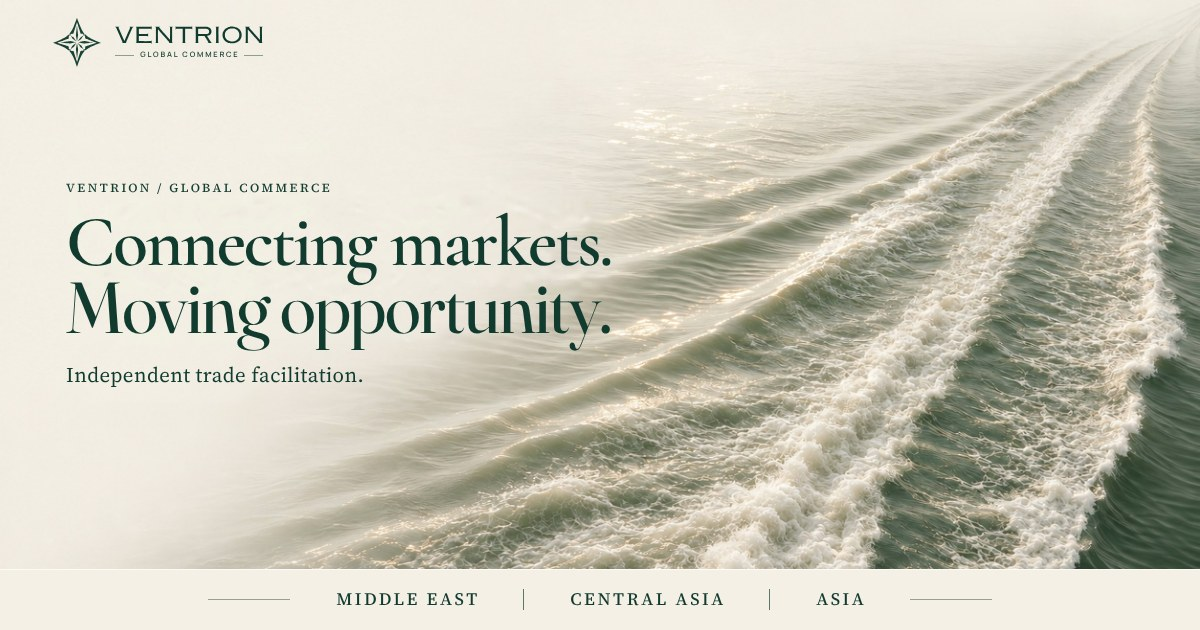
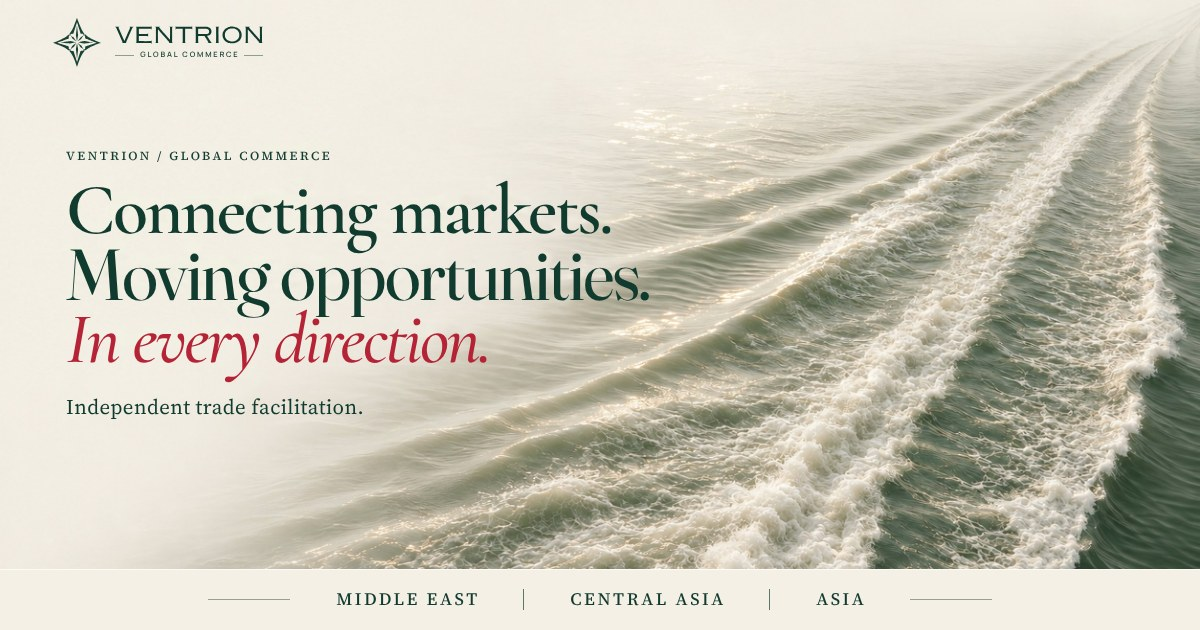
Round 10: three-line hero, "Track your progress", Ventrion's illustrations
- Hero: "Connecting markets. / Moving opportunities. / In every direction."
  (the third line in burgundy italic); title, slogan, manifest, footer line,
  social cards and alt text updated to match; phone headline sized so all
  three lines stay whole down to 320px screens
- Client portal: "Track your progress." with a plain-spoken description:
  "Ventrion values transparency and time more than anything. To give you peace
  of mind, you can track your trade whenever you want, wherever you are."
  Every "Track your engagements" link now reads "Track your progress"
- Ventrion's warehouse and ship's hold illustrations, cut out of their
  backgrounds as transparent images (soft shadows kept), now picture Quality
  Over Quantity and Distance Changes Nothing
- The table of elements moves beneath the network map; the vector bulk bags
  drawing is retired

Claude-Session: https://claude.ai/code/session_01HLCdPeU8aC6mDrDa4YDQgv

Changed region(s): [[0.0308, 0.2413, 0.555, 0.6635]]

diff --git a/components/sections/Network.tsx b/components/sections/Network.tsx
@@ -7,6 +7,7 @@ import { Eyebrow } from "@/components/ui/Eyebrow";
 import { SplitHeading } from "@/components/ui/SplitHeading";
 import { Reveal } from "@/components/ui/Reveal";
 import { NetworkMap } from "./network/NetworkMap";
+import { ElementTable } from "./network/ElementTable";
 
 function CornerFrame() {
   const corner = "absolute h-5 w-5 border-mark/35";
@@ -94,41 +95,48 @@ export function Network() {
         </Reveal>
 
         <div className="mt-12 grid gap-14 lg:mt-16 lg:grid-cols-12 lg:gap-8">
-          {/* The markets, by region: hover, tab to or tap a name to bring it forward on the map */}
-          <div className="grid grid-cols-2 gap-x-6 gap-y-8 sm:grid-cols-3 lg:col-span-7">
-            {REGIONS.map((region) => (
-              <div key={region} className={region === "Middle East" ? "row-span-2 sm:row-span-1" : ""}>
-                <p className="eyebrow text-[10px] text-mist">{region}</p>
-                <ul className="mt-3 space-y-2">
-                  {MARKETS.map((market, i) =>
-                    market.region === region ? (
-                      <li key={market.id}>
-                        <button
-                          type="button"
-                          onClick={() => select(i)}
-                          onMouseEnter={() => hoverMarket(i)}
-                          onMouseLeave={() => hoverMarket(null)}
-                          onFocus={() => hoverMarket(i)}
-                          onBlur={() => hoverMarket(null)}
-                          aria-pressed={i === active}
-                          className={`group flex items-center gap-2.5 text-left font-serif text-[1.15rem] leading-tight text-ivory transition-opacity duration-500 sm:text-[1.25rem] ${
-                            i === focus ? "italic" : "opacity-80 hover:opacity-100"
-                          }`}
-                        >
-                          <span
-                            aria-hidden="true"
-                            className={`h-1.5 w-1.5 shrink-0 rounded-full bg-burgundy transition-transform duration-500 ${
-                              i === focus ? "scale-100" : "scale-0 group-hover:scale-100"
+          <div className="lg:col-span-7">
+            {/* The markets, by region: hover, tab to or tap a name to bring it forward on the map */}
+            <div className="grid grid-cols-2 gap-x-6 gap-y-8 sm:grid-cols-3">
+              {REGIONS.map((region) => (
+                <div key={region} className={region === "Middle East" ? "row-span-2 sm:row-span-1" : ""}>
+                  <p className="eyebrow text-[10px] text-mist">{region}</p>
+                  <ul className="mt-3 space-y-2">
+                    {MARKETS.map((market, i) =>
+                      market.region === region ? (
+                        <li key={market.id}>
+                          <button
+                            type="button"
+                            onClick={() => select(i)}
+                            onMouseEnter={() => hoverMarket(i)}
+                            onMouseLeave={() => hoverMarket(null)}
+                            onFocus={() => hoverMarket(i)}
+                            onBlur={() => hoverMarket(null)}
+                            aria-pressed={i === active}
+                            className={`group flex items-center gap-2.5 text-left font-serif text-[1.15rem] leading-tight text-ivory transition-opacity duration-500 sm:text-[1.25rem] ${
+                              i === focus ? "italic" : "opacity-80 hover:opacity-100"
                             }`}
-                          />
-                          {market.name}
-                        </button>
-                      </li>
-                    ) : null,
-                  )}
-                </ul>
-              </div>
-            ))}
+                          >
+                            <span
+                              aria-hidden="true"
+                              className={`h-1.5 w-1.5 shrink-0 rounded-full bg-burgundy transition-transform duration-500 ${
+                                i === focus ? "scale-100" : "scale-0 group-hover:scale-100"
+                              }`}
+                            />
+                            {market.name}
+                          </button>
+                        </li>
+                      ) : null,
+                    )}
+                  </ul>
+                </div>
+              ))}
+            </div>
+
+            {/* What moves through the network: the table of elements, in the map's colours */}
+            <Reveal className="mt-14 max-w-[34rem] border-t border-line pt-10 lg:mt-16">
+              <ElementTable />
+            </Reveal>
           </div>
 
           <Reveal stagger={0.12} className="lg:col-span-4 lg:col-start-9">

diff --git a/components/sections/Principles.tsx b/components/sections/Principles.tsx
@@ -1,6 +1,7 @@
 "use client";
 
-import { useRef } from "react";
+import Image from "next/image";
+import { useRef, type ReactNode } from "react";
 import { gsap, MOTION_QUERIES, useGSAP } from "@/lib/gsap";
 import { PRINCIPLES, type PrincipleId } from "@/lib/content";
 import { Eyebrow } from "@/components/ui/Eyebrow";
@@ -8,14 +9,37 @@ import { Reveal } from "@/components/ui/Reveal";
 import { Emphasis } from "@/components/ui/Emphasis";
 import { WayWeWork } from "./principles/WayWeWork";
 import { TradingHouse } from "./principles/diagrams/TradingHouse";
-import { ElementTable } from "./principles/diagrams/ElementTable";
-import { BulkBags } from "./principles/diagrams/BulkBags";
+import warehouse from "@/assets/images/art/warehouse.webp";
+import shipHold from "@/assets/images/art/ship-hold.webp";
 
-/** A drawing for each principle, in the style of the network map. */
-const DIAGRAMS: Record<PrincipleId, () => React.ReactElement> = {
-  principals: TradingHouse,
-  quality: ElementTable,
-  distance: BulkBags,
+const ART_SIZES = "(min-width: 1024px) 28rem, 100vw";
+
+/**
+ * A picture for each principle. Ventrion's own illustrations, cut out of their
+ * backgrounds: a warehouse of bulk bags where one carries the red tag (one name
+ * among many), and a ship's hold laden with cargo (however far it travels). The old
+ * trading house is drawn in the style of the network map.
+ */
+const VISUALS: Record<PrincipleId, ReactNode> = {
+  principals: <TradingHouse />,
+  quality: (
+    <Image
+      src={warehouse}
+      alt="A warehouse of bulk bags on pallets; one bag carries a red tag."
+      sizes={ART_SIZES}
+      quality={85}
+      className="h-auto w-full"
+    />
+  ),
+  distance: (
+    <Image
+      src={shipHold}
+      alt="A cutaway of a ship's hold, laden with cargo."
+      sizes={ART_SIZES}
+      quality={85}
+      className="h-auto w-full"
+    />
+  ),
 };
 
 /** "Trust does." oversized; "Trust" in burgundy italic, filled by a sweep of light as it scrolls into view. */
@@ -101,12 +125,7 @@ export function Principles() {
                 <h3 className="display-md max-w-[14ch] text-balance text-ivory">
                   <Emphasis text={principle.title} />
                 </h3>
-                <div aria-hidden="true" className="mt-8 w-full max-w-[26rem] lg:mt-12">
-                  {(() => {
-                    const Diagram = DIAGRAMS[principle.id];
-                    return <Diagram />;
-                  })()}
-                </div>
+                <div className="mt-8 w-full max-w-[28rem] lg:mt-12">{VISUALS[principle.id]}</div>
               </Reveal>
               <Reveal stagger={0.1} className="lg:col-span-6 lg:col-start-7">
                 <p data-reveal className="max-w-[30ch] font-serif text-[1.45rem] leading-snug text-ivory/90 sm:text-[1.6rem]">

diff --git a/components/sections/Hero.tsx b/components/sections/Hero.tsx
@@ -58,7 +58,7 @@ export function Hero() {
 
             <h1
               id="hero-title"
-              className="mt-6 font-serif text-[min(11.5vw,4.2rem)] font-semibold leading-[0.897] tracking-[-0.033em] text-ivory md:text-[3.8rem] lg:mt-[1.3vw] lg:text-[min(6.02vw,11.6svh)]"
+              className="mt-6 font-serif text-[min(10.7vw,4.2rem)] font-semibold leading-[0.897] tracking-[-0.033em] text-ivory md:text-[3.8rem] lg:mt-[1.3vw] lg:text-[min(6.02vw,11.6svh)]"
             >
               <span className="line-mask">
                 <span className="hero-line" style={i(0)}>
@@ -67,20 +67,25 @@ export function Hero() {
               </span>
               <span className="line-mask">
                 {/* Fraunces at 400 matches the weight of the Cormorant line above. Its optical size is held
-                    at the display cut: left automatic, phones get the wider text cut and the line wraps.
-                    Held at 90, the two lines set to the same width at every screen size. */}
+                    at the display cut: left automatic, phones get the wider text cut and the line wraps. */}
                 <span
                   className="hero-line font-accent font-normal tracking-[-0.02em]"
                   style={{ ...i(1), fontVariationSettings: '"opsz" 90' }}
                 >
-                  Moving opportunity.
+                  Moving opportunities.
+                </span>
+              </span>
+              {/* the third line in the site's accent: burgundy italic */}
+              <span className="line-mask">
+                <span className="hero-line font-medium italic text-burgundy" style={i(2)}>
+                  In every direction.
                 </span>
               </span>
             </h1>
 
             <p
               className="hero-fade mt-6 max-w-[34rem] font-text text-[17px] leading-[1.25] tracking-[0.02em] text-ivory md:text-[20px] lg:mt-[1.86vw] lg:max-w-none lg:text-[clamp(18px,1.741vw,31px)] lg:leading-[1.2]"
-              style={i(2)}
+              style={i(3)}
             >
               Independent trade facilitation.
             </p>

diff --git a/components/portal/ClientPortal.tsx b/components/portal/ClientPortal.tsx
@@ -26,7 +26,7 @@ import { getCallAction, getMailtoHref, siteConfig } from "@/lib/site";
 import { startScroll, stopScroll } from "@/lib/scroll";
 
 /*
- * The client portal: "Track your engagements".
+ * The client portal: "Track your progress".
  *
  * Every security marker shown here is real: the HTTPS check, the SHA-256
  * fingerprint computed on the visitor's device (the ID itself is never sent),
@@ -385,11 +385,11 @@ function PortalDialog({ onClose }: { onClose: () => void }) {
             Session <span className="text-paper/70">{reference}</span>
           </p>
           <h2 id="portal-title" className="mt-3 font-serif text-[2.35rem] font-medium leading-[1.02] sm:text-[2.6rem]">
-            Track your <em>engagements.</em>
+            Track your <em>progress.</em>
           </h2>
           <p id="portal-desc" className="mt-3 max-w-[30rem] text-[14.5px] leading-relaxed text-paper/70">
-            A private view of your engagement with Ventrion. Enter the Client ID you were given to follow its
-            progress.
+            Ventrion values transparency and time more than anything. To give you peace of mind, you can track your
+            trade whenever you want, wherever you are.
           </p>
 
           {/* Session checks */}

diff --git a/app/layout.tsx b/app/layout.tsx
@@ -24,7 +24,7 @@ const textSerif = Source_Serif_4({
   display: "swap",
 });
 
-// Display serif for the second line of the hero, "Moving opportunity."
+// Display serif for the second line of the hero, "Moving opportunities."
 const accent = Fraunces({
   subsets: ["latin"],
   // optical sizes give the display cut at headline sizes; the SOFT and WONK axes aren't used
@@ -40,7 +40,7 @@ const sans = Manrope({
 });
 
 const siteUrl = getSiteUrl();
-const title = "Ventrion — Connecting markets. Moving opportunity.";
+const title = "Ventrion — Connecting markets. Moving opportunities.";
 const description = siteConfig.description;
 
 export const metadata: Metadata = {
@@ -92,7 +92,7 @@ function StructuredData() {
         url: siteUrl,
         logo: `${siteUrl}/brand/ventrion-logo-512.png`,
         description: siteConfig.description,
-        slogan: "Connecting markets. Moving opportunity.",
+        slogan: "Connecting markets. Moving opportunities. In every direction.",
         areaServed: MARKETS.map((m) => ({ "@type": "Country", name: m.name })),
         knowsAbout: ["Trade facilitation", "International trade"],
         ...(!isPlaceholder(siteConfig.email)

diff --git a/app/globals.css b/app/globals.css
@@ -358,8 +358,7 @@
     }
   }
 
-  /* Principle diagrams: the element card fades in, the clock keeps time, the flag lifts,
-     the lifted bulk bag sways on its hook */
+  /* Diagrams: the element card fades in; the trading house's clock keeps time and its flag lifts */
   .element-card {
     animation: card-in 0.7s ease both;
   }
@@ -377,19 +376,11 @@
     transform-origin: 200px 13px;
     animation: flag-wave 3.4s ease-in-out infinite alternate;
   }
-  .bag-sway {
-    animation: bag-sway 5.6s ease-in-out infinite alternate;
-  }
-  .bag-shadow {
-    animation: bag-shadow 5.6s ease-in-out infinite alternate;
-  }
   @media (prefers-reduced-motion: reduce) {
     .element-card,
     .clock-hour,
     .clock-minute,
-    .flag,
-    .bag-sway,
-    .bag-shadow {
+    .flag {
       animation: none;
     }
   }
@@ -491,24 +482,6 @@
   }
   to {
     transform: skewY(-5deg) scaleX(0.94);
-  }
-}
-
-@keyframes bag-sway {
-  from {
-    transform: rotate(-1.4deg);
-  }
-  to {
-    transform: rotate(1.4deg);
-  }
-}
-
-@keyframes bag-shadow {
-  from {
-    transform: translateX(7px);
-  }
-  to {
-    transform: translateX(-7px);
   }
 }
 

diff --git a/components/layout/Footer.tsx b/components/layout/Footer.tsx
@@ -31,7 +31,7 @@ export function Footer() {
               <LogoWordmark className="h-[15px] w-auto" />
             </a>
             <p className="display-sm mt-10 max-w-[22ch] text-ivory">
-              Connecting markets. Moving <em className="text-burgundy">opportunity.</em>
+              Connecting markets. Moving opportunities. <em className="text-burgundy">In every direction.</em>
             </p>
             <p className="mt-3 max-w-xs text-sm leading-relaxed text-mist">An independent trade facilitation company.</p>
           </div>
@@ -78,7 +78,7 @@ export function Footer() {
               ) : null}
               <li className="flex flex-col gap-1">
                 <span className={labelClass}>Client portal</span>
-                <PortalTrigger className={`${linkClass} self-start text-left`}>Track your engagements</PortalTrigger>
+                <PortalTrigger className={`${linkClass} self-start text-left`}>Track your progress</PortalTrigger>
               </li>
             </ul>
           </div>

diff --git a/lib/site.ts b/lib/site.ts
@@ -18,7 +18,7 @@ export const siteConfig = {
   name: "Ventrion",
   /** Registered legal entity name, used in the privacy policy and terms. */
   legalName: process.env.NEXT_PUBLIC_COMPANY_LEGAL_NAME || "Ventrion Company",
-  tagline: "Connecting markets. Moving opportunity.",
+  tagline: "Connecting markets. Moving opportunities.",
   description:
     "Ventrion is an independent trade facilitation company, connecting trusted counterparts through an established network across the Middle East, Central Asia and Asia.",
 

diff --git a/components/sections/Contact.tsx b/components/sections/Contact.tsx
@@ -104,7 +104,7 @@ export function Contact() {
               </span>
               <span className="flex flex-col text-left">
                 <span className="eyebrow text-[9.5px] text-mist">Client portal</span>
-                <span className="mt-0.5">Track your engagements</span>
+                <span className="mt-0.5">Track your progress</span>
               </span>
             </PortalTrigger>
           </div>

diff --git a/app/manifest.ts b/app/manifest.ts
@@ -2,7 +2,7 @@ import type { MetadataRoute } from "next";
 
 export default function manifest(): MetadataRoute.Manifest {
   return {
-    name: "Ventrion — Connecting markets. Moving opportunity.",
+    name: "Ventrion — Connecting markets. Moving opportunities.",
     short_name: "Ventrion",
     description: "An independent trade facilitation company.",
     start_url: "/",

diff --git a/lib/client-portal.ts b/lib/client-portal.ts
@@ -1,5 +1,5 @@
 /**
- * Client portal ("Track your engagements") — shared by the browser and the API route.
+ * Client portal ("Track your progress") — shared by the browser and the API route.
  *
  * Security model
  * - A Client ID never leaves the visitor's device in readable form. The browser
